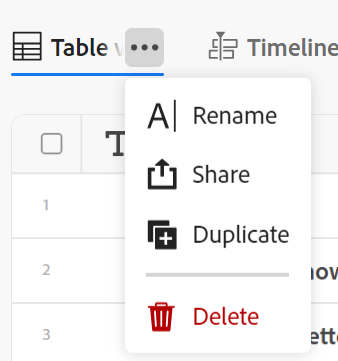
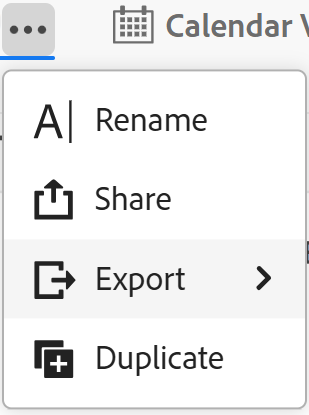
commit-aw-15-may

diff --git a/help/quicksilver/planning/views/manage-the-timeline-view.md b/help/quicksilver/planning/views/manage-the-timeline-view.md
@@ -92,8 +92,6 @@ You must have the following access to perform the steps in this article:
 
 ## Manage a timeline view {#manage-a-timeline-view}
 
-<!--insert screen shot of timeline view-->
-
 When creating a timeline view, all records of the selected record type display in a chronological timeline.
 
 Consider the following: 
@@ -272,7 +270,7 @@ Update the timeline view settings to indicate what and how information displays 
 
 1. Click **Bar style** in the left panel, to indicate what information you want to display on the record bars.
 
-    <!--<span class="preview">You can define the bar style of  the main record as well as for the connected records, when using the Breakdown option in the Standard view. </span>-->
+    <span class="preview">You can define the bar style of  the main record as well as for the connected records, when using the Breakdown option in the Standard view. </span>
 
     The primary field (or title) of the record, as defined in the record's table view, is selected by default.
     <!--adjust this when the primary field is released??-->
@@ -303,17 +301,14 @@ Update the timeline view settings to indicate what and how information displays 
 
     >[!TIP]
     >
-    >* <span class="preview">The Truncate bar details setting is not available when displaying the timeline view in Compact mode, and it is not available in the Calendar view.</span>
+    ><span class="preview">The Truncate bar details setting is not available when displaying the timeline view in Compact mode, and it is not available in the Calendar view.</span>
     >
-    >* <span class="preview">If you break down the timeline view to display connected objects, the Truncate bar details setting applies only to the main record type. It does not apply to the connected record bars.</span> 
-
-    <!--take out the last bullet in the Tip above when we release the additional records in breakdown formatting-->
 
 1. Click **Color** in the left panel, to customize the colors of the records and groupings in the timeline. 
 
     ![Color tab timeline view](assets/color-tab-timeline-view.png)
 
-    <!--<span class="preview">You can define the color of  the main record as well as for the connected records, when using the Breakdown option in the Standard view. </span>-->
+    <span class="preview">You can define the color of  the main record as well as for the connected records, when using the Breakdown option in the Standard view. </span>
 
 1. (Conditional and optional) If you added a grouping to the timeline view, select from the following options to set a color for the grouping in the **Set grouping color** section:
 
@@ -352,7 +347,7 @@ Update the timeline view settings to indicate what and how information displays 
 
     If you do not have a field with color-coded options for the selected record type, this option is dimmed.
 
-    <!--1. <span class="preview">(Optional) If you are using the Breakdown option, repeat the steps starting with step 4 for each connected record displayed in the timeline. </span>-->
+    1. <span class="preview">(Optional) If you are using the Breakdown option, repeat the steps starting with step 4 for each connected record displayed in the timeline. </span>
 
 1. Click **Save**.
 
@@ -404,9 +399,18 @@ You can display connected records in a record's timeline view by using the Break
     >    The Start and End dates must be sequential. If the End date is before the Start date, no records will display in the timeline. 
 
     A right-pointing arrow displays on the selected record's bar in the timeline, if they they are connected with other records. 
-1. Click the right-pointing arrow to expand a record type and display is connections. 
+1. Click the right-pointing arrow to expand a record type and display its connections. 
 
     ![Campaigns broken down by programs in the timeline view](assets/campaigns-broken-down-by-programs-in-timeline-highlighted.png)    
+
+    >[!IMPORTANT]
+    >
+    >    When you display multiple connected records in the breakdown, they are not in hierarchical order. 
+    >
+    >For example, if you are viewing the campaigns' timeline and you add Products and then Programs to the breakdown, Programs are not necessarily connected to the Products first. 
+    >
+    >Both Products and Programs must be connected to the campaigns to display as choices for the breakdown option, and you can add them to the breakdown in any order.
+
 
 1. (Optional) Repeat the steps above to add more connected records. 
 

diff --git a/help/quicksilver/planning/architecture/import-file-to-create-record-types.md b/help/quicksilver/planning/architecture/import-file-to-create-record-types.md
@@ -102,10 +102,12 @@ You must have the following access to perform the steps in this article:
 * The file should not be larger than 5MB.
 * Empty sheets are not supported. 
 * Fields of the following types are not supported and cannot be mapped to fields on the import sheet:
-    
-    * <!--In the Production environment,--> Connection fields to Planning records or Workfront and AEM Assets objects
 
-        <!--<span class="preview">In the Preview environment, you can map and import connection fields to Planning records. </span>-->
+    * Connection fields, depending on the environment you use:
+    
+        * In the Production environment, connection fields to Planning records or Workfront and AEM Assets objects cannot be mapped
+
+        * <span class="preview">In the Preview environment, you can map and import connection fields to Planning records. You cannot map fields to Workfront and AEM Assets.</span>
 
     * Lookup fields from connected Planning records or Workfront and AEM Assets objects
     * Formula fields
@@ -123,8 +125,8 @@ To import record types using an Excel or CSV file:
 
     From a workspace, expand the downward-pointing arrow to the right of an existing workspace name, search for a workspace, then select it when it displays in the list.
 1. Click **Add record type**. 
-1. Click **From file**.
-1. Drag and drop an Excel or CSV file previously saved on your computer, or click **Select a CSV or Excel file** to browse for one. 
+1. Click **Upload from file**.
+1. Drag and drop an Excel or CSV file previously saved on your computer, or click **Select a CSV or Excel file** to browse for one, then select it. 
 1. Click **Preview and edit**.
     
     The **Preview and edit** box displays with the following information: 
@@ -147,11 +149,21 @@ To import record types using an Excel or CSV file:
 
     Sheets you deselected display with a gray background. 
 
-1. (Optional) Click the downward-pointing arrow to the right of the column header to do one of the following:
+1. (Optional) Click the downward-pointing arrow to the right of a column header to do one of the following, <span class="preview">in the **Field** tab</span>:
+
+    <span class="preview">![Field tab on the record type mapping import box](assets/field-tab-on-record-type-import-mapping-box.png)</span>
 
     * Rename one of the fields
     * Change the **Field type**
     * Update the field **Description**
+
+1. <span class="preview">(Optional) Click the **Connection** tab to map the information in the column to a connected field from other record types.</span>
+
+    <span class="preview">![Connection tab on the record type import mapping box](assets/connection-tab-on-record-type-import-mapping-box.png)</span>
+
+    >[!TIP]
+    >
+    ><span class="preview">You can only map to fields from Workfront Planning connected records. You cannot map to fields from Workfront or AEM Assets connections. For more information, see the section [Considerations about importing record types using an Excel or CSV file](#considerations-about-importing-record-types-using-an-excel-or-csv-file) in this article.</span>
 
 1. (Conditional) After updating information about the field, click **Save**.
 

diff --git a/help/quicksilver/planning/views/manage-the-table-view.md b/help/quicksilver/planning/views/manage-the-table-view.md
@@ -23,7 +23,7 @@ This article describes the following information:
 
 * [Create or edit columns and rows in a table view](#manage-a-table-view)
 * [Enable real-time presence indicators for the table view](#enable-the-real-time-presence-indicator)
-<!--* <span class="preview">[Export a table view to a CSV or Excel file](#export-the-table-view)</span>-->
+* <span class="preview">[Export a table view to a CSV or Excel file](#export-the-table-view)</span>
 
 ## Access requirements
 
@@ -82,7 +82,7 @@ You must have the following access to perform the steps in this article:
 <tr> 
    <td role="rowheader"><p>Object permissions</p></td> 
    <td>   <p>Manage permissions to a view</p>  
-   <p>View permissions to a view to temporarily change the view settings or duplicate it <!--<span class="preview">or to export the view</span>--></p> </td> 
+   <p>View permissions to a view to temporarily change the view settings, duplicate, <span class="preview">or to export it</span></p> </td> 
   </tr> 
 <tr> 
    <td role="rowheader"><p>Layout template</p></td> 
@@ -103,8 +103,6 @@ You can edit record information only in the table view.
 For more information about editing records in the table view, see [Edit records](/help/quicksilver/planning/records/edit-records.md).
 
 ## Manage a table view {#manage-a-table-view}
-
-<!--insert screen shot of table view-->
 
 When creating a table view, all records of the selected type display in a table. Each row is a unique record and each column is a record field. All fields and all records display by default. 
 
@@ -541,7 +539,7 @@ When you display the table view, you can also view which field another user is e
     >
     >You can select the **Show collaborators** toggle from any view. The field currently edited by others is outlined only in the table view. 
 
-<!--<div class="preview">
+<div class="preview">
 
 ## Export the table view
 
@@ -559,6 +557,8 @@ To export information from the table view or a record type:
 
 1. Go to a record type page and click a table view tab. 
 1. Hover over the table view tab's name, then click the **More** menu ![More menu](assets/more-menu.png).
+
+    ![More menu on a view](assets/view-more-menu-with-duplicate-option.png)
 1. Click **Export**, then select one of the following formats:
 
     * Excel
@@ -588,4 +588,3 @@ To export information from the table view or a record type:
     
  </div>   
 
- -->

diff --git a/help/quicksilver/planning/records/import-file-to-create-records.md b/help/quicksilver/planning/records/import-file-to-create-records.md
@@ -107,9 +107,11 @@ You must have the following access to perform the steps in this article:
 * Empty sheets are not supported.
 * Fields of the following types are not supported and cannot be mapped to fields on the import sheet:
 
-    * <!--In the Production environment,--> Connection fields to Planning records or Workfront and AEM Assets objects
+    * Connection fields, depending on the environment you use:
+    
+        * In the Production environment, connection fields to Planning records or Workfront and AEM Assets objects cannot be mapped
 
-        <!--<span class="preview">In the Preview environment, you can map and import connection fields to Planning records. </span>-->
+        * <span class="preview">In the Preview environment, you can map and import connection fields to Planning records. You cannot map fields to Workfront and AEM Assets.</span>
 
     * Lookup fields from connected Planning records or Workfront and AEM Assets objects
     * Formula fields
@@ -142,6 +144,11 @@ You must have the following access to perform the steps in this article:
     ![Map Planning fields to columns when importing records](assets/map-planning-fields-to-columns-when-importing-records.png)
  
     Each row represents a new record. Only the first 10 records display in the Preview and edit box. 
+
+    >[!TIP]
+    >
+    >Not all field types are supported. For more information, see the section [Considerations about importing records using an Excel or CSV file](#considerations-about-importing-records-using-an-excel-or-csv-file) in this article.
+
 
 1. (Optional and conditional) If you have Manage permissions to the workspace, select the **Create missing options** in the lower-left corner of the screen. When enabled, the missing choices of single- and multi-select fields are added. 
 

diff --git a/help/quicksilver/planning/views/delete-record-views.md b/help/quicksilver/planning/views/delete-record-views.md
@@ -105,11 +105,14 @@ You must have the following access to perform the steps in this article:
 
     By default, all the records of the selected type display in the table view. 
 
-1. Hover over one the of the view's names in the view tab, then click **More** ![More menu](assets/more-menu.png) to the left of the view name, then click **Delete**. 
+1. <span class="preview">Hover over one the of the view's names in the view tab, then click **More** ![More menu](assets/more-menu.png) to the left of the view name, then click **Delete**.</span> 
 
-    First, you might need to click **More** to the left of the last tab to find the view you want to delete.
+    <span class="preview">![View more menu on a record view](assets/view-more-menu-with-duplicate-option.png)</span>
 
-    ![View more menu on a record view](assets/view-more-menu-with-duplicate-option.png)
+   >[!TIP]
+   >
+   >You might need to click **More** to the right of the last tab to find the view you want to delete.
+
 
 1. Click **Delete** to confirm. <!--ensure there is not another saving step here?!-->
     

diff --git a/help/quicksilver/planning/views/duplicate-record-views.md b/help/quicksilver/planning/views/duplicate-record-views.md
@@ -108,9 +108,9 @@ You must have the following access to perform the steps in this article:
     The record type page opens. 
     By default, all the records of the type selected display in the table view. 
 
-1. Hover over the tab of the view you want to duplicate, and click the **More** menu ![More menu](assets/more-menu.png) to the right of the view name, then click **Duplicate**. 
+1. <span class="preview">Hover over the tab of the view you want to duplicate, and click the **More** menu ![More menu](assets/more-menu.png) to the right of the view name, then click **Duplicate**. </span>
 
-    ![View more menu on a record view](assets/view-more-menu-with-duplicate-option.png)
+    <span class="preview">![View more menu on a record view](assets/view-more-menu-with-duplicate-option.png)</span>
 
     
     The view is duplicated and the new view's name follows the following pattern: `Original view's name (Copy)`. The new view tab displays at the end of all view tabs.

diff --git a/help/quicksilver/planning/access/share-views.md b/help/quicksilver/planning/access/share-views.md
@@ -139,9 +139,9 @@ You can share views you created or views you have Manage permissions to with use
 
    This opens the record type page.
 
-1. From the view tab, hover over the view you want to share and click the **More** menu ![More menu](assets/more-menu.png) to the right of the view name, then click **Share**. 
+1. <span class="preview">From the view tab, hover over the view you want to share and click the **More** menu ![More menu](assets/more-menu.png) to the right of the view name, then click **Share**. </span>
 
-   ![More menu for views expanded with share option](assets/more-menu-for-views-expanded-with-share-option.png)
+   <span class="preview">![More menu for a view](assets/more-menu-for-views-expanded-with-share-option.png) </span>
 
    The **Internal sharing** tab should be selected by default.
 

diff --git a/help/quicksilver/manage-work/projects/create-and-manage-templates/edit-templates.md b/help/quicksilver/manage-work/projects/create-and-manage-templates/edit-templates.md
@@ -1094,7 +1094,7 @@ Adding the following items to a template is identical to adding them to a projec
 
 * Billing Rates
 
-  For more information about overriding billing rates for a project, see [Overview of overriding Job Role Billing Rates and calculating Revenue on a project](../../../manage-work/projects/project-finances/override-role-billing-rates-and-calculate-project-revenue.md).
+  Adding billing rates for a template is similar to adding billing rates to a project. For more information, see [Override Job Role Billing Rates at the project level](/help/quicksilver/manage-work/projects/project-finances/override-job-role-billing-rates-at-the-project-level.md).
 
 * Expenses
 

diff --git a/help/quicksilver/manage-work/projects/project-finances/override-job-role-billing-rates-at-the-project-level.md b/help/quicksilver/manage-work/projects/project-finances/override-job-role-billing-rates-at-the-project-level.md
@@ -67,6 +67,8 @@ You can override the billing rate of a job role on a project in the following wa
 * Several times, by selecting several new rates for specific date ranges.   
   A different rate can be used during each specified date range.
 
+* You can add new billing rates to a project template and those become project billing rates when you create the project from that template. For information about editing templates, see [Edit project templates](/help/quicksilver/manage-work/projects/create-and-manage-templates/edit-templates.md). 
+
 >[!TIP]
 >
 >You cannot override user billing rates for a project.

diff --git a/help/quicksilver/planning/views/manage-record-views.md b/help/quicksilver/planning/views/manage-record-views.md
@@ -162,6 +162,7 @@ The following table shows the similarities and differences between the table, ti
 | Display records by year and quarter                    |           | ✓              |    |
 | Display records by month                    |           | ✓              |  ✓  |
 | Display records by week                    |           |               |  ✓  |
+|<span class="preview">Export information from a view</span>                   | <span class="preview">✓</span>          |               |    |
 
 
 ## Create or edit views {#create-or-edit-views}
